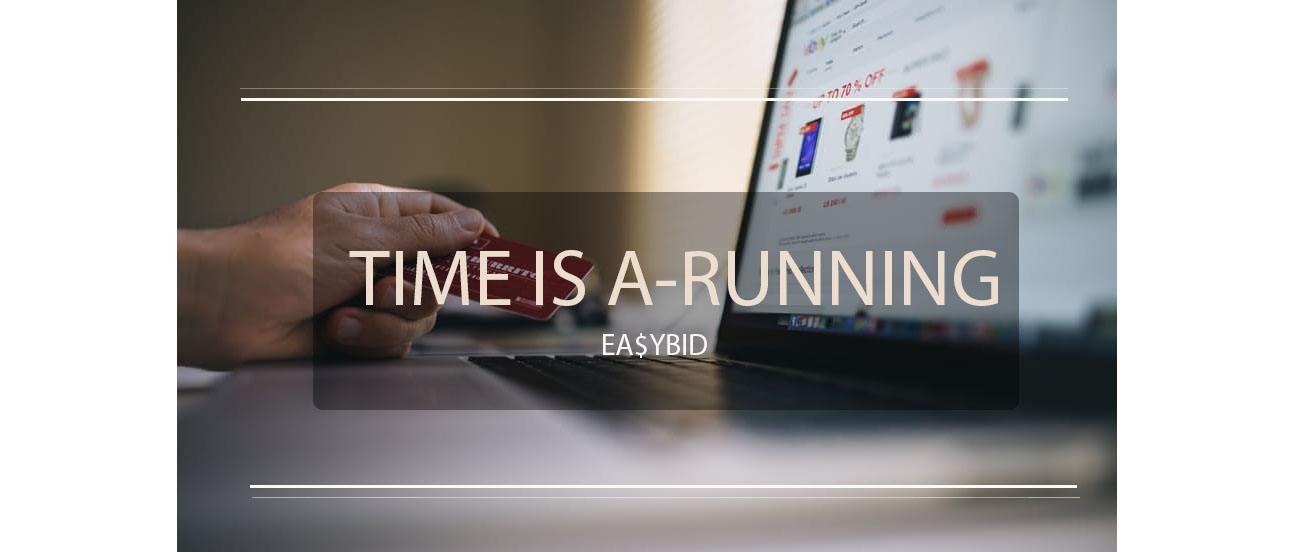
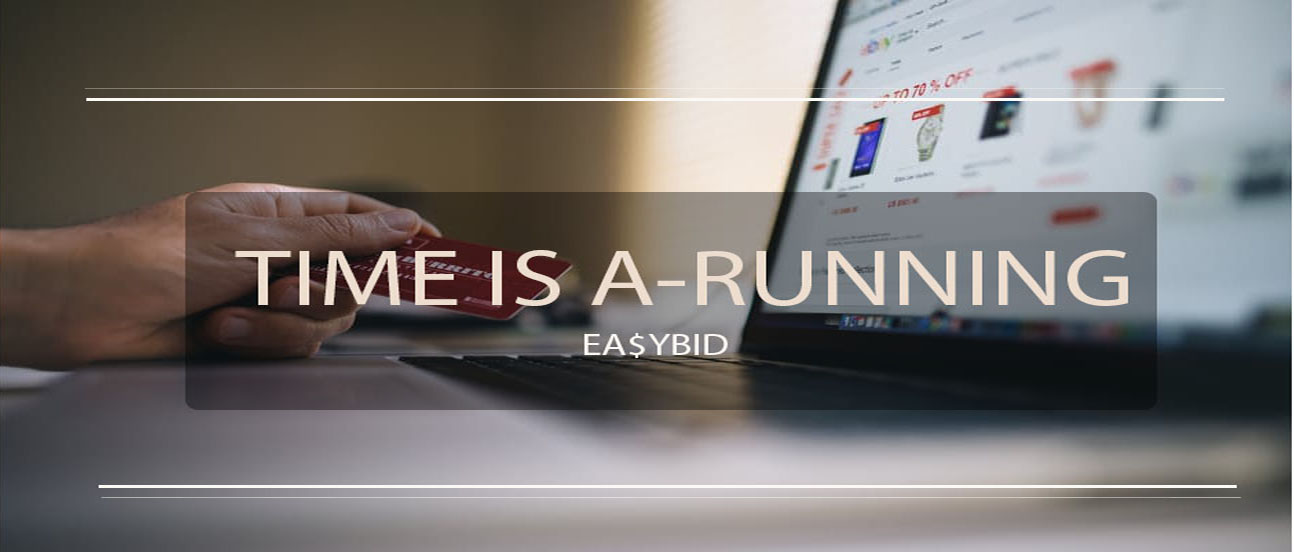
adjustments

diff --git a/Advert.html b/Advert.html
@@ -7,19 +7,37 @@
 </head>
 <body>
 	<div id="menu">
-		<button class="button"><span>Sell</span></button>
-		<button class="button"><span>Buy</span></button>
-		<p>EASYBid</p>
+			<button class="button"><span>Sell</span></button>
+			<button class="button"><span>Buy</span></button>
+			<p>EASYBid</p>
 	</div>
 
 	<div class="foo">
-		<img class="slide" width="1290" height="520" src="marilyn Monroe.jpg">
-		<img class="slide" width="1290" height="520" src="new.jpg">
-		<img class="slide" width="1290" height="520" src="Ea$y.png">
+		<img class="slide" width="100%" height="20%" src="marilyn Monroe.jpg">
+		<img class="slide" width="100%" height="20%" src="new.jpg">
+		<img class="slide" width="100%" height="20&" src="Ea$y.jpg">
 
+	<section class="info">
+		<h2>1000+</h2>
+		<h5>Accessories to purchase</h5>
+	</section>
+
+	<section class="info2">
+		<h2>Guaranteed!</h2>
+		<h5>Authorized purchases only</h5>
+	</section>
+
+	<section class="info3">
+		<h2>15000+</h2>
+		<h5>Satisfied customers</h5>
+	</section>
+
+
+		
 	</div>
 	
 	<div class="footer">
+		<img width="100%" height="500%" src="Ea$y.png">
 		<button class="button">Logout</button>
 	</div>
 

diff --git a/style.css b/style.css
@@ -50,25 +50,25 @@ body{
 
 
 #menu{
-	border:1px solid gray;
-	padding-top: 10px;
+	/*border:1px solid gray;*/
+	padding-top: 30px;
 	padding-right: 10px;
+	/*background:rgb(0,0,0, 0.4);*/
+	background:rgba(0,0,0,0.8);
+	opacity: 0.95;
+	margin-top: 45px;
 	box-shadow: 0 8px 16px 0 rgba(0,0,0,0.2), 0 6px 20px 0 rgba(0,0,0,0.19);
 
 }
 
-.footer{
-	padding-right:10px;
-	padding-top:425px;
-}
 
 .foo{
 	padding:2%;
-	margin-top: 20px;
+	margin-top: 15px;
 	/*margin-left:60px;
 	margin-right:20px;*/
-	max-width:230px;
-	max-height:95px;
+	max-width:590%;
+	max-height:90%;
 	width: auto;
 	height: auto;
 }
@@ -89,7 +89,46 @@ body{
 
 }
 
+.info{
+	font-size:30px;
+	left:100px;
+}
+
+.info h5{
+	font-size:16px;
+}
+
+.info2{
+	position: absolute;
+	padding-top: 33%;
+	top:30%;
+	left: 33%;
+	font-size:30px;
+}
+
+.info2 h5{
+	font-size:16px;
+}
+
+.info3{
+	position: absolute;
+	padding-top:33%;
+	top:30%;
+	left: 75%;
+	font-size:30px;
+}
+
+.info3 h5{
+	font-size:16px;
+}
+
 
 p{
 	font-family: monospace;
+}
+
+.footer{
+	padding-right:10px;
+	padding-top:800px;
+	top: 420px;
 }
